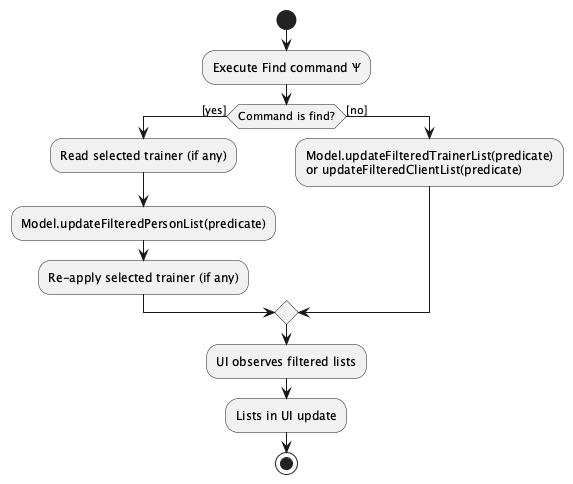
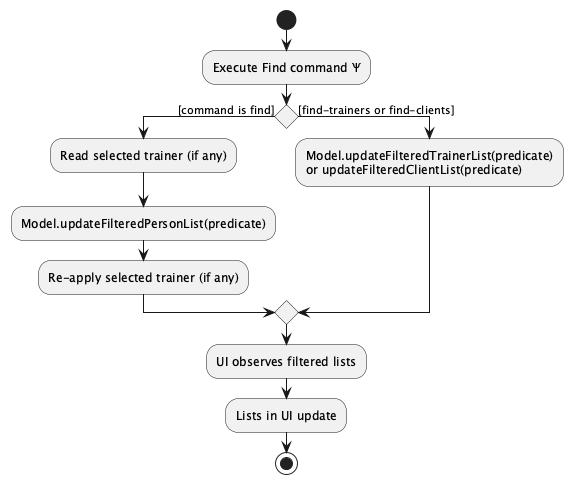
Address PR review comments: UG cleanup and fix find activity diagrams

Changed region(s): [[0.2967, 0.2169, 0.801, 0.2789]]

diff --git a/docs/UserGuide.md b/docs/UserGuide.md
@@ -353,15 +353,11 @@ Format: `list-trainers`
 
 #### Finding trainers: `find-trainers`
 
-Finds trainers whose names contain any of the given keywords.
+Finds trainers whose names contain any of the given keywords. Searches only the trainer list.
 
 Format: `find-trainers KEYWORD [MORE_KEYWORDS]`
 
-* The search is case-insensitive. e.g. `hans` matches `Hans`.
-* The order of keywords does not matter. e.g. `Hans Bo` matches `Bo Hans`.
-* Partial words are matched. e.g. `Han` matches `Hans`.
-* Each keyword may only contain alphanumeric characters, periods, hyphens, apostrophes, and slashes. e.g. `Bob123`, `o'connor`, and `s/o` are valid; `Bob@` is not.
-* Results include trainers matching **at least one** keyword (OR search).
+* Follows the same search rules as [`find`](#finding-persons-find) (case-insensitive, partial match, OR search, keyword character restrictions).
 * Run `list-trainers` to return to the full trainer list after searching.
 
 Examples:
@@ -389,12 +385,11 @@ Format: `stats`
 
 #### Deleting a trainer: `delete-trainer`
 
-Alias for `delete t/INDEX`. Deletes a trainer from GymOps.
+Deletes the trainer at the given index from GymOps. Shorthand for `delete t/INDEX`.
 
 Format: `delete-trainer INDEX`
 
 * `INDEX` must refer to a trainer in the **trainer list**.
-* This command is equivalent to `delete t/INDEX`.
 
 <div markdown="span" class="alert alert-warning">:exclamation: **Caution:** A trainer cannot be deleted if they still have active clients. Use `delete-client` to remove their clients first.</div>
 
@@ -499,15 +494,11 @@ Examples:
 
 #### Finding clients: `find-clients`
 
-Finds clients whose names contain any of the given keywords.
+Finds clients whose names contain any of the given keywords. Searches only the client list.
 
 Format: `find-clients KEYWORD [MORE_KEYWORDS]`
 
-* The search is case-insensitive. e.g. `alice` matches `Alice`.
-* The order of keywords does not matter. e.g. `Alice Bob` matches `Bob Alice`.
-* Partial words are matched. e.g. `Ali` matches `Alice`.
-* Each keyword may only contain alphanumeric characters, periods, hyphens, apostrophes, and slashes. e.g. `Alice123`, `o'connor`, and `s/o` are valid; `Alice@` is not.
-* Results include clients matching **at least one** keyword (OR search).
+* Follows the same search rules as [`find`](#finding-persons-find) (case-insensitive, partial match, OR search, keyword character restrictions).
 * Run `list-clients` to return to the full client list after searching.
 
 Examples:
@@ -522,12 +513,11 @@ Examples:
 
 #### Deleting a client: `delete-client`
 
-Alias for `delete c/INDEX`. Deletes a client from GymOps. The client is permanently removed and unassigned from their trainer.
+Deletes the client at the given index from GymOps. Shorthand for `delete c/INDEX`.
 
 Format: `delete-client INDEX`
 
 * `INDEX` must refer to a client in the **client list**.
-* This command is equivalent to `delete c/INDEX`.
 
 <div markdown="span" class="alert alert-info">:bulb: **Tip:** Run `find-clients NAME` first to locate the client, then use the index shown in the filtered list.</div>
 
